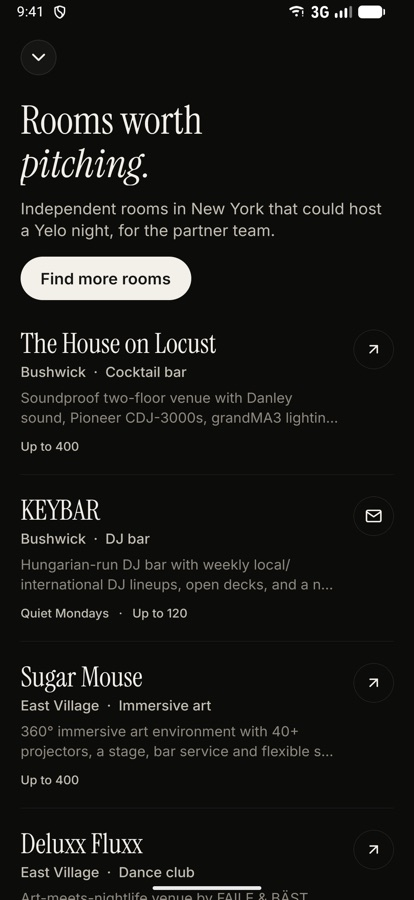
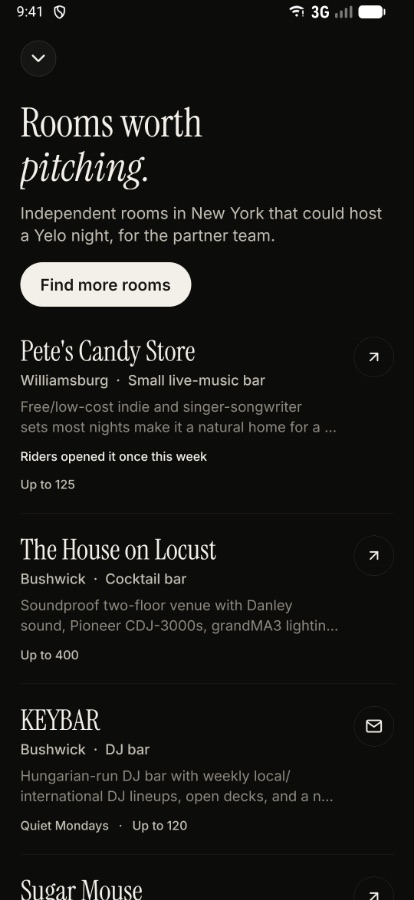
Rooms shot: current screen with a warm lead; caption mentions rider interest

diff --git a/site/index.html b/site/index.html
@@ -179,8 +179,8 @@
         <figcaption><b>Ride there</b>Each spot shows the time, the address, which friends are going, and the ride there with its price.</figcaption></figure>
       <figure><img src="shot-crew.jpg" alt="Your crews: Nublu, leaving in 17 minutes, 2 coming and 1 on the way, with Can\'t make it and I\'m on my way; below, start a crew or join one from a link" loading="lazy" width="414" height="900">
         <figcaption><b>Head out together</b>Start a crew, send the link, and see who's coming and who's on the way.</figcaption></figure>
-      <figure><img src="shot-rooms.jpg" alt="Rooms page listing venues worth pitching, with quiet nights" loading="lazy" width="414" height="900">
-        <figcaption><b>Rooms worth pitching</b>Venues that could host a Yelo night, with capacity, a quiet weeknight and a contact.</figcaption></figure>
+      <figure><img src="shot-rooms.jpg" alt="Rooms worth pitching in New York: Pete's Candy Store first, which riders opened this week, then The House on Locust and KEYBAR, each with neighbourhood, type, capacity and a contact button" loading="lazy" width="414" height="900">
+        <figcaption><b>Rooms worth pitching</b>Venues that could host a Yelo night, with capacity, a quiet weeknight, a contact, and which ones riders already open.</figcaption></figure>
     </div>
   </section>
 
